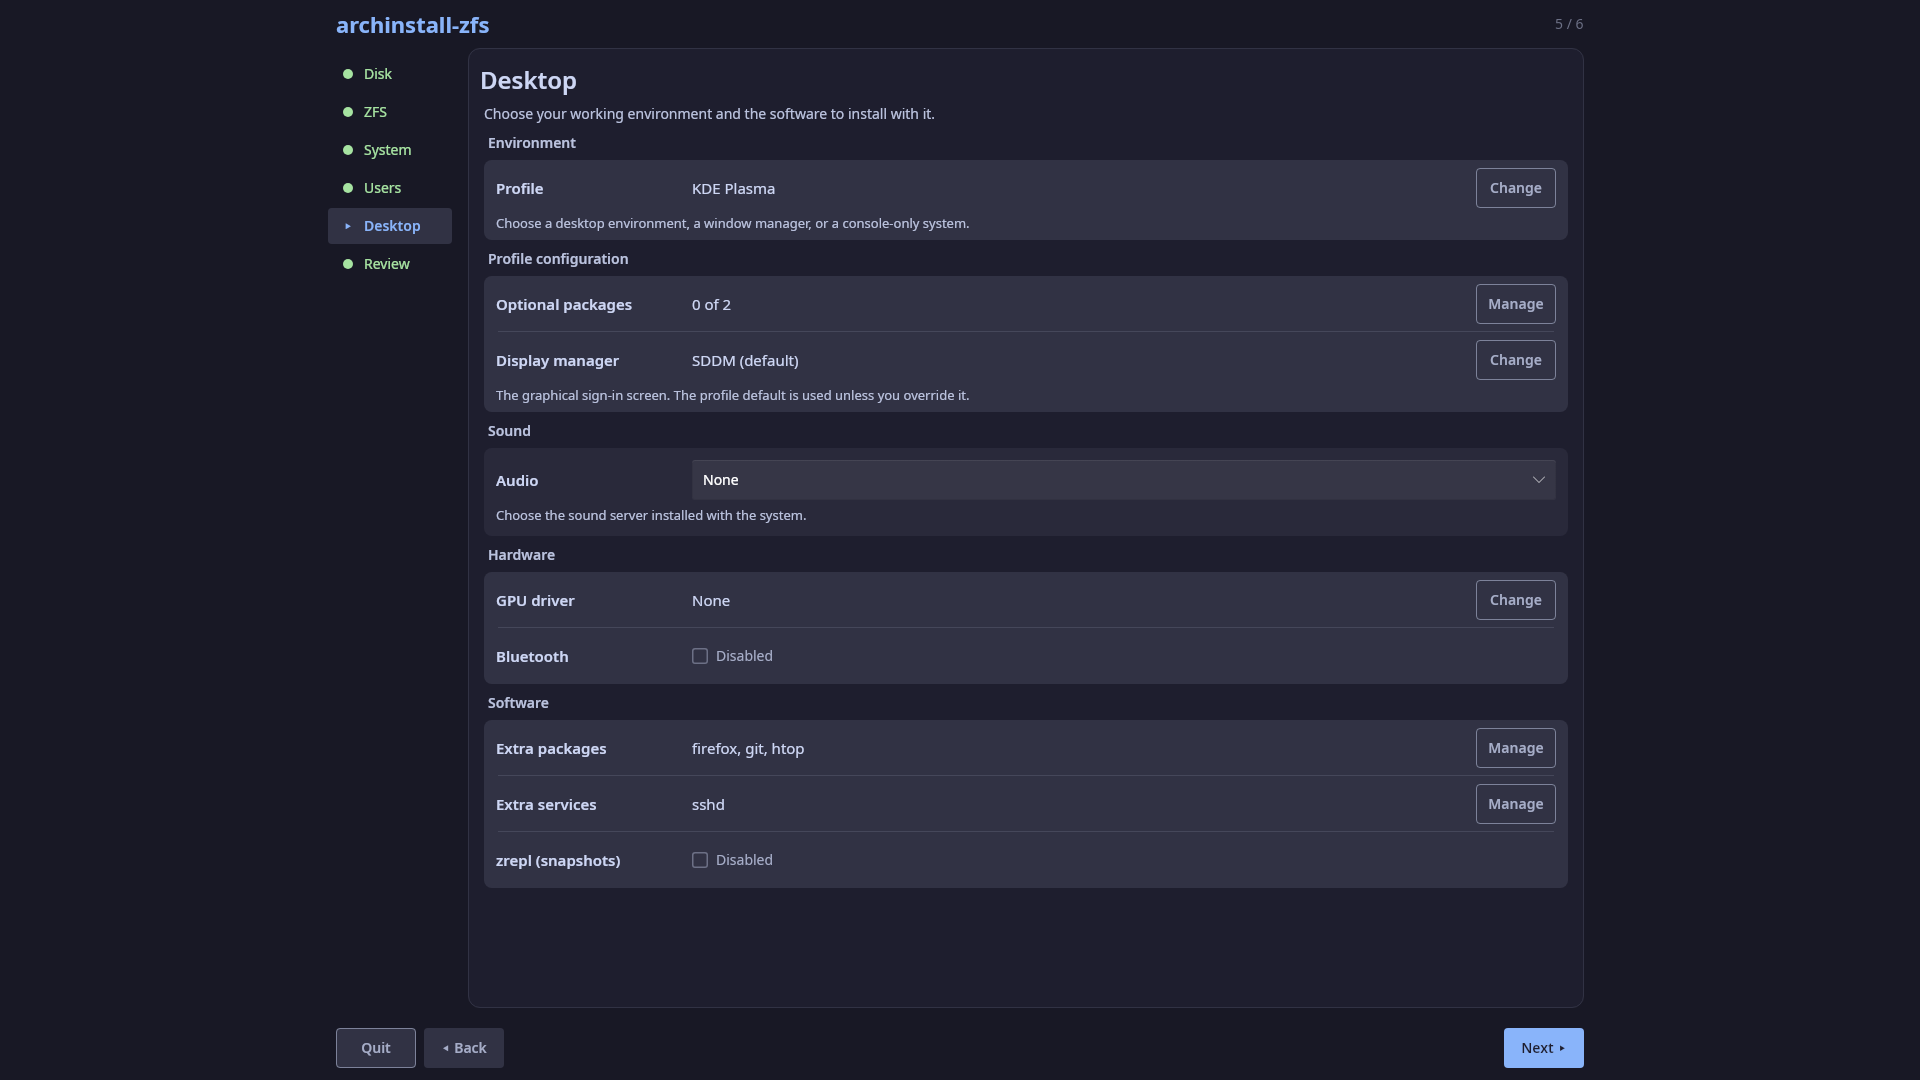
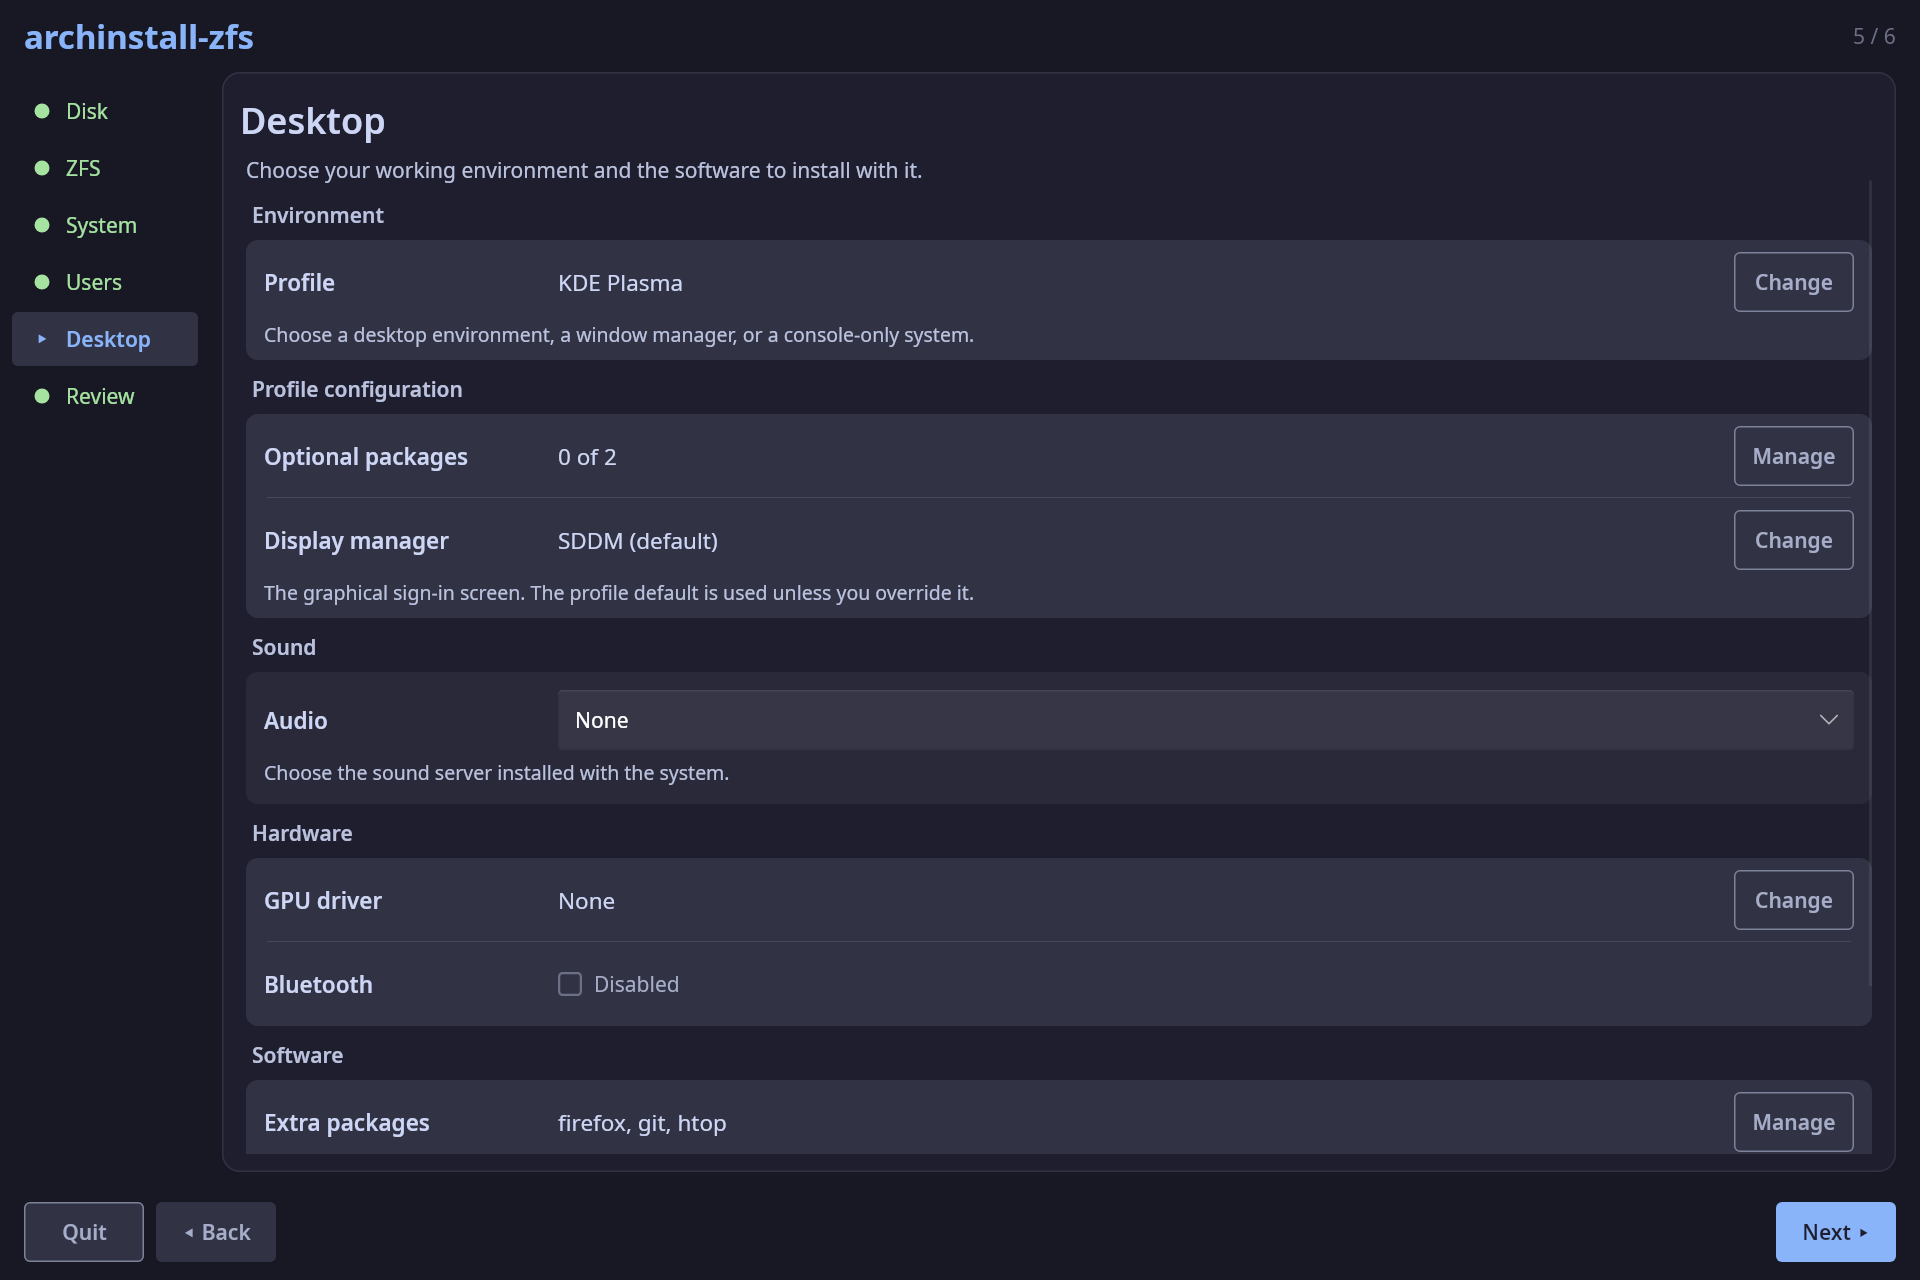
Take the README screenshots in 3:2
At 1920x1080 the wizard reaches its maximum content width around 1255px, so a
capture carried empty bands down both sides and the elements came out a third
smaller than in the images they replaced.

- Capture at 1920x1280 with a 150% scale: the 1280x853 logical viewport is
  about as wide as the content, and the image still carries one and a half
  times the pixels a README scales it down from
- That viewport is below the 900px the wizard uses to switch the disk overview
  to its compact rows, which is also what a 1366x768 laptop shows

diff --git a/slint-ui/scripts/readme_shots.py b/slint-ui/scripts/readme_shots.py
@@ -37,8 +37,11 @@ def main():
     parser.add_argument('--assets', type=Path, default=Path('assets'))
     parser.add_argument('--work', type=Path, default=Path('target/readme-shots'),
                         help='Screenshots, element trees and preview logs before copying')
-    parser.add_argument('--size', default='1920x1080', help='The README baseline is Full HD')
-    parser.add_argument('--scale', default='1')
+    # 3:2 at 150%: the logical 1280x853 viewport is about as wide as the content
+    # itself, so a shot has no empty bands beside the panel, and every element is
+    # rendered at one and a half times the pixels a README scales it down from.
+    parser.add_argument('--size', default='1920x1280')
+    parser.add_argument('--scale', default='1.5')
     parser.add_argument('--shots', nargs='+', choices=list(SHOTS), default=list(SHOTS))
     args = parser.parse_args()
     binary = args.binary.resolve()

diff --git a/slint-ui/README.md b/slint-ui/README.md
@@ -118,8 +118,12 @@ Storage discovery in the production picker is read-only; choosing an existing
 pool does not import it. Space and dataset details for unimported pools remain
 unknown until installation imports them.
 
-Regenerate the screenshots in the project README from the same fixtures, at Full
-HD and 100%, writing straight into `assets/`:
+Regenerate the screenshots in the project README from the same fixtures, writing
+straight into `assets/`. They are captured at 1920×1280 with a 150% scale: the
+resulting 1280×853 logical viewport is about as wide as the content itself, so
+no empty bands sit beside the panel, and a README scales the image down from one
+and a half times the pixels. This is a presentation size, not a review one —
+review still starts at Full HD and 100%:
 
 ```sh
 just readme-shots
@@ -130,7 +134,9 @@ uv run slint-ui/scripts/readme_shots.py --shots disk-step review-step
 captures show the installer's own layout; keep the banner in every other preview
 run. The intermediate screenshots, element trees and logs stay in
 `target/readme-shots`. Review the images before committing them: the script only
-checks that each scene rendered and logged nothing.
+checks that each scene rendered and logged nothing. A rerun reproduces every
+capture byte for byte except `install-progress.png`, whose spinner is caught
+mid-rotation; its contents do not change.
 
 For additional interaction checks, use Slint MCP's `get_element_tree`, `click_element`,
 `set_element_value`, and `dispatch_key_event`. Check password entry, Wi-Fi connect,
